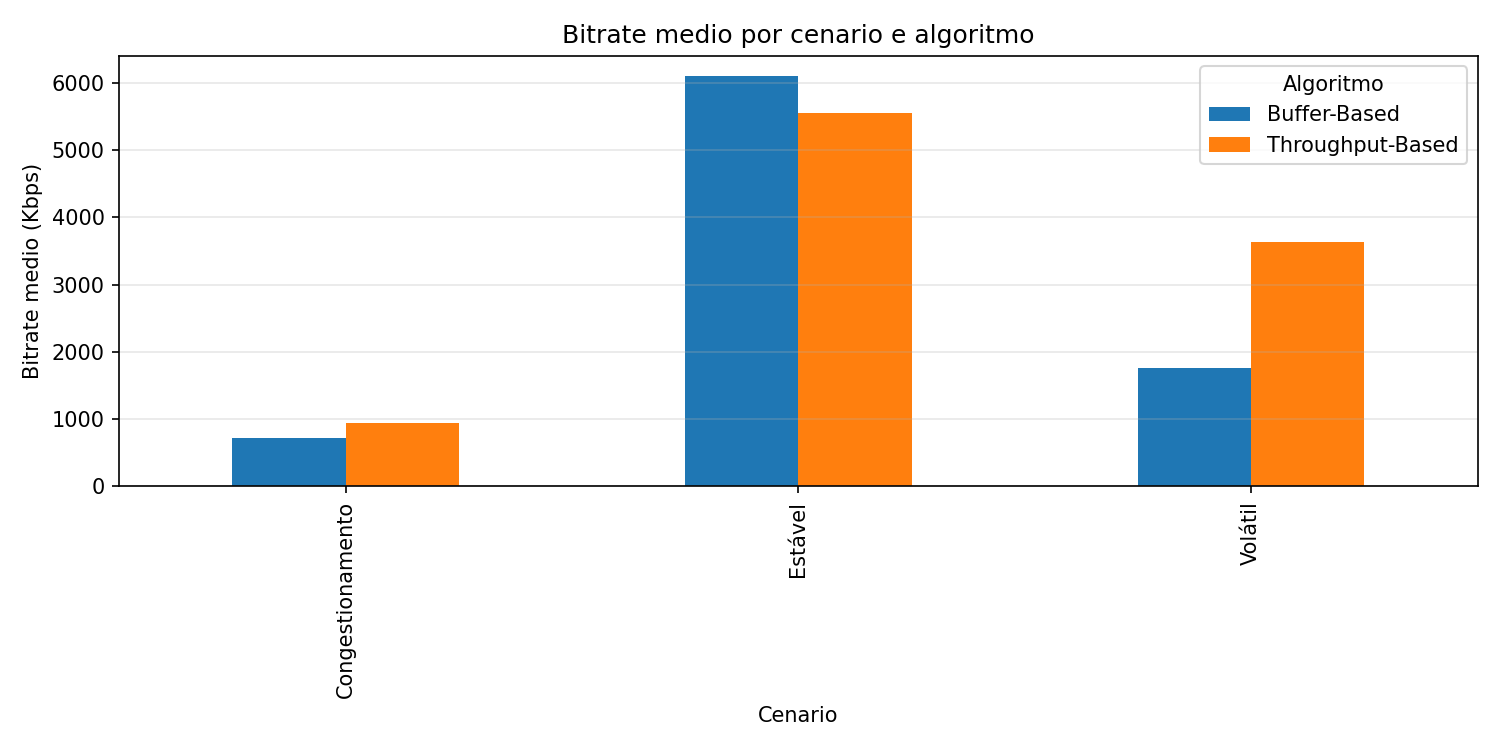
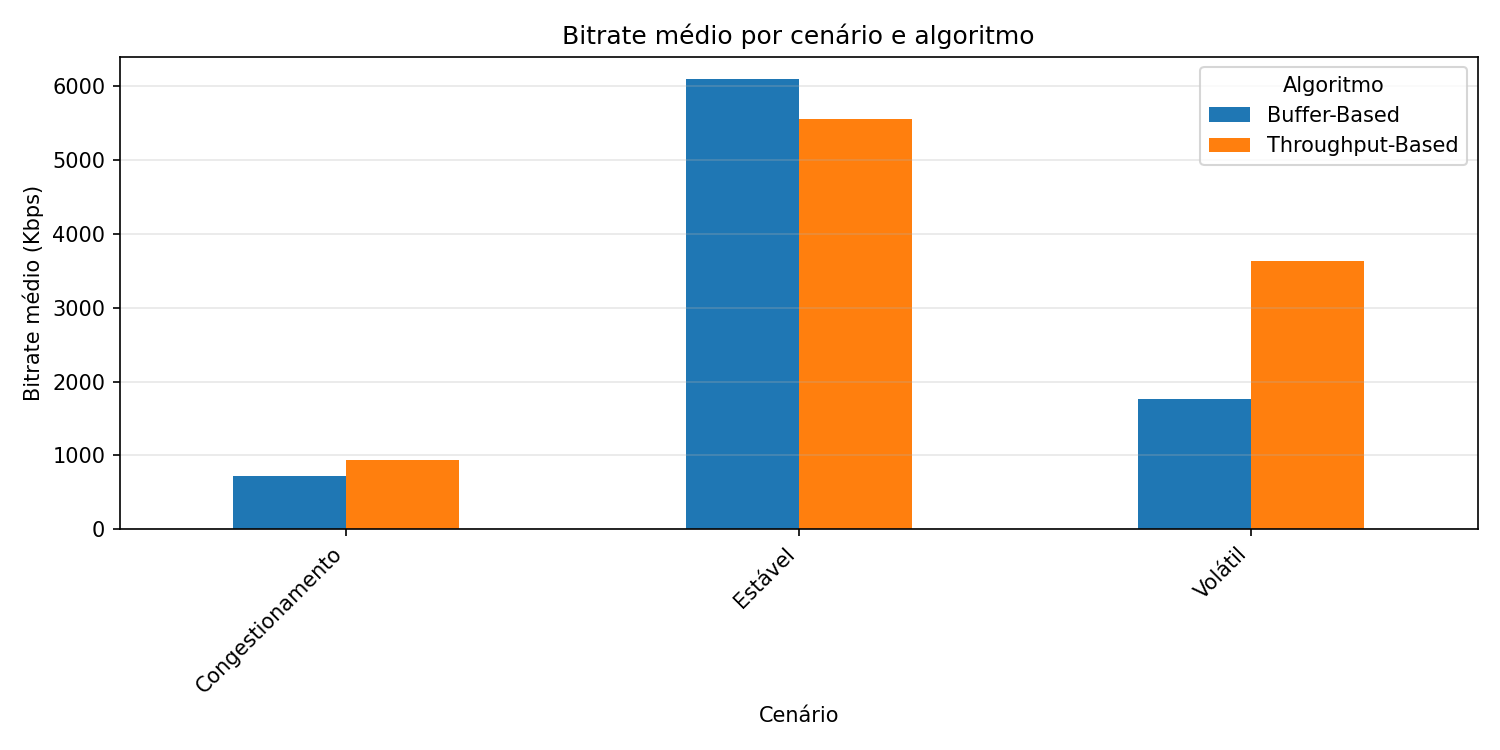
fix: update titles and labels for clarity in comparative graphs

diff --git a/simulacao_final.py b/simulacao_final.py
@@ -309,9 +309,10 @@ def gerar_graficos_comparativos(df):
     )
 
     ax = bitrate_por_cenario.plot(kind='bar', figsize=(10, 5))
-    ax.set_title('Bitrate medio por cenario e algoritmo')
-    ax.set_ylabel('Bitrate medio (Kbps)')
-    ax.set_xlabel('Cenario')
+    ax.set_title('Bitrate médio por cenário e algoritmo')
+    ax.set_ylabel('Bitrate médio (Kbps)')
+    ax.set_xlabel('Cenário')
+    plt.setp(ax.get_xticklabels(), rotation=45, ha='right')
     ax.grid(axis='y', alpha=0.3)
     plt.tight_layout()
     plt.savefig(os.path.join(GRAFICOS_DIR, 'bitrate_medio_por_cenario.png'), dpi=150)
@@ -325,9 +326,10 @@ def gerar_graficos_comparativos(df):
     )
 
     ax = travamentos_por_cenario.plot(kind='bar', figsize=(10, 5))
-    ax.set_title('Travamentos totais por cenario e algoritmo')
+    ax.set_title('Travamentos totais por cenário e algoritmo')
     ax.set_ylabel('Quantidade de travamentos')
-    ax.set_xlabel('Cenario')
+    ax.set_xlabel('Cenário')
+    plt.setp(ax.get_xticklabels(), rotation=45, ha='right')
     ax.grid(axis='y', alpha=0.3)
     plt.tight_layout()
     plt.savefig(os.path.join(GRAFICOS_DIR, 'travamentos_por_cenario.png'), dpi=150)
@@ -343,8 +345,8 @@ def gerar_graficos_comparativos(df):
         )
 
         ax = buffer_por_tempo.plot(figsize=(10, 5))
-        ax.set_title(f'Ocupacao media do buffer ao longo do tempo - {cenario}')
-        ax.set_ylabel('Buffer medio (s)')
+        ax.set_title(f'Ocupação média do buffer ao longo do tempo - {cenario}')
+        ax.set_ylabel('Buffer médio (s)')
         ax.set_xlabel('Tempo (s)')
         ax.grid(alpha=0.3)
         plt.tight_layout()
